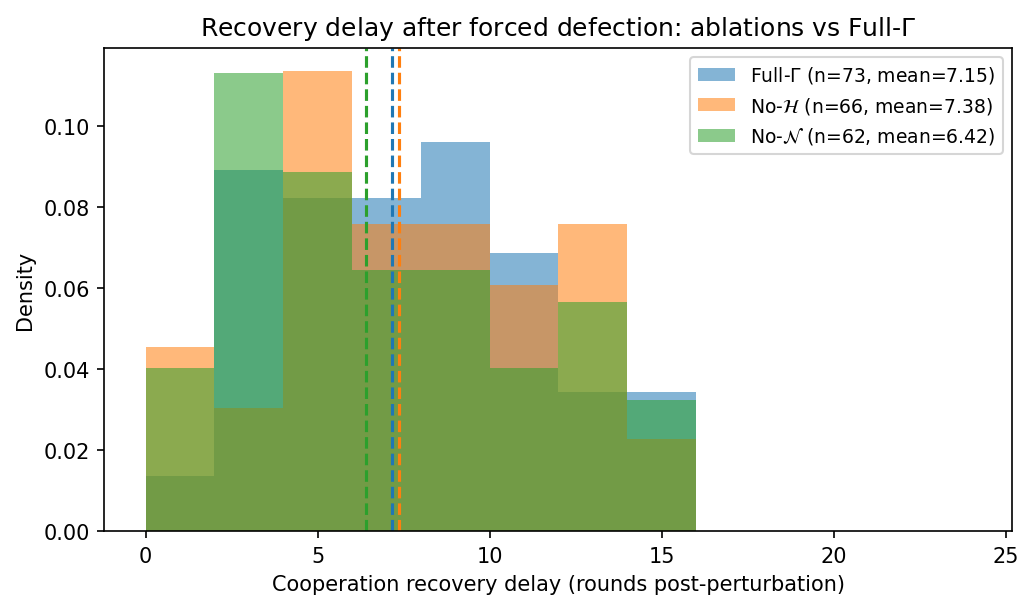
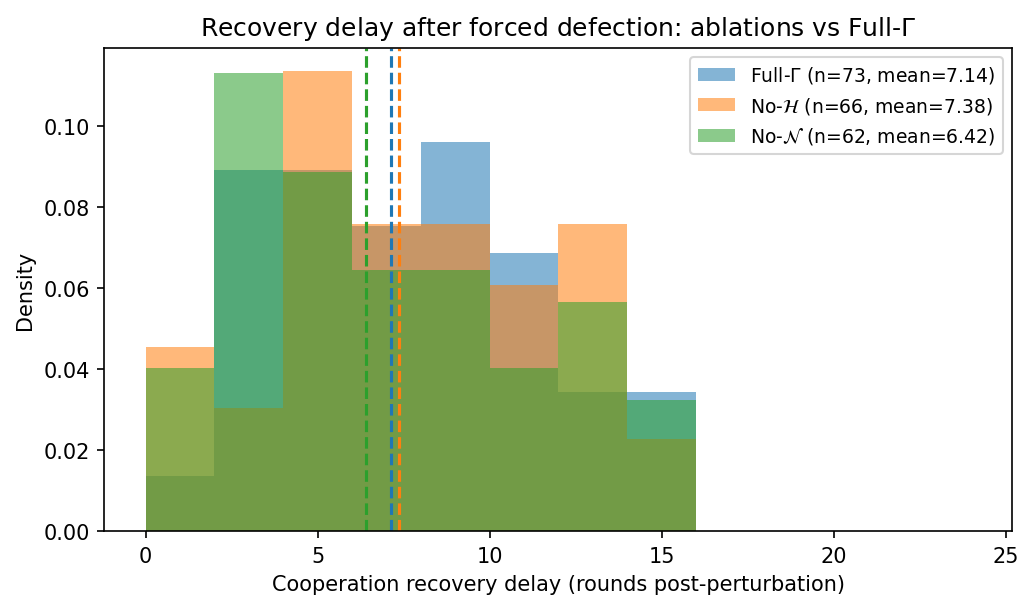
Update runtime artifacts (benchmark status, fig4)

Changed region(s): [[0.2478, 0.2808, 0.4337, 0.3744]]

diff --git a/opp_breakdown.py b/opp_breakdown.py
@@ -1,0 +1,26 @@
+import json
+from collections import defaultdict
+import numpy as np
+
+d = json.load(open('checkpoints/cells.json', encoding='utf-8'))
+by_cond_opp = defaultdict(lambda: defaultdict(list))
+for v in d.values():
+    r = v['result']
+    cond = r['key']['condition']
+    opp = r['key']['opponent']
+    by_cond_opp[cond][opp].append(r['cooperation_rate'])
+
+conds = ['Full-Gamma', 'ReAct', 'Random-Gamma', 'No-H', 'HRRL', 'Drive-only', 'Collapse-NC', 'No-E', 'No-N']
+opps = ['TFT', 'GTFT', 'Grim', 'Random']
+
+print('Opponent breakdown (mean coop):')
+print(f"{'Condition':22s} {'TFT':8s} {'GTFT':8s} {'Grim':8s} {'Random':8s} {'Range':8s}")
+print('-' * 70)
+for cond in conds:
+    vals = []
+    for opp in opps:
+        data = by_cond_opp[cond].get(opp, [])
+        vals.append(np.mean(data) if data else float('nan'))
+    rng = max(v for v in vals if not np.isnan(v)) - min(v for v in vals if not np.isnan(v))
+    row = f'{cond:22s} ' + ' '.join(f'{v:7.3f}' for v in vals) + f'  {rng:6.3f}'
+    print(row)
